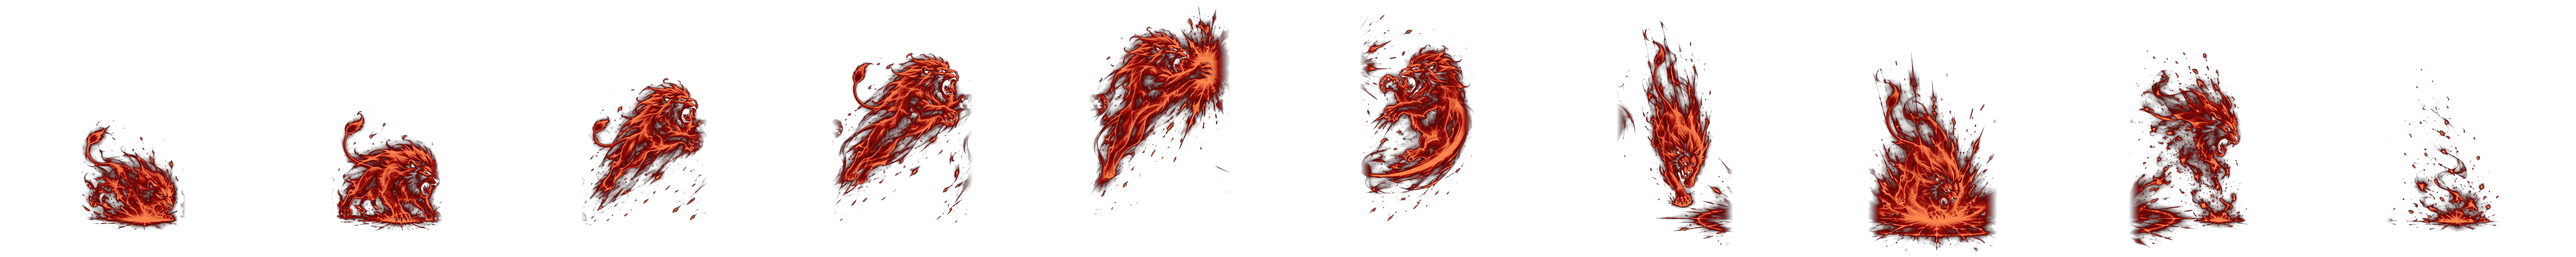
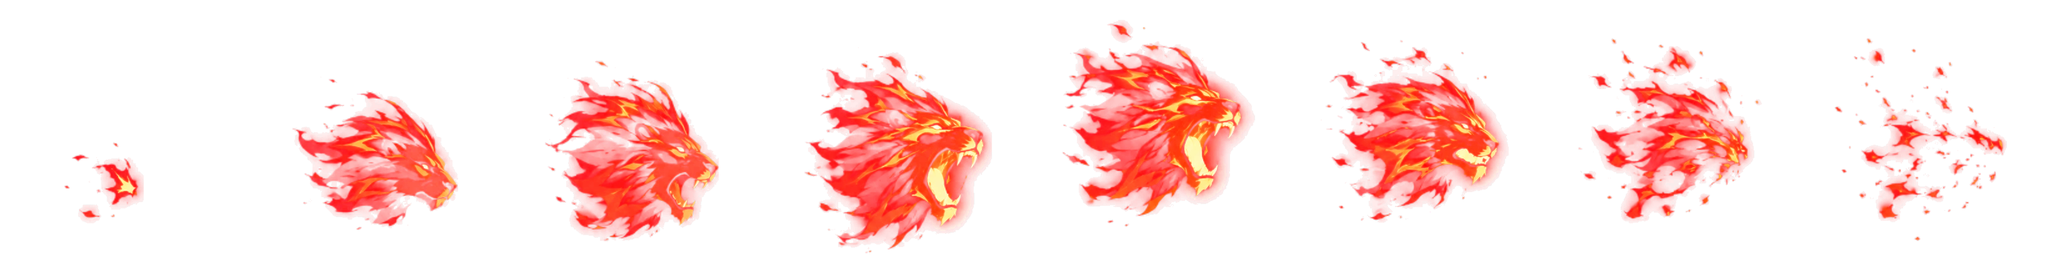
Warrior GPT batch (5 images): Wave Slash's own steel crescent running along the floor (its flying sheet; no longer borrows the basic's), Lion's Maw a recognisable crimson lion's head that lunges and bites, Iron Grip an iron gauntlet that closes into a fist, Judgment Blade a sword of light falling po
Claude-Session: https://claude.ai/code/session_0179BFGqN9ps681Yef5tVH6E

diff --git a/src/skills/SkillFx.ts b/src/skills/SkillFx.ts
@@ -17,7 +17,7 @@ import { ImpactFx } from './ImpactFx';
 
 const F = 'assets/final';
 /** Skills that borrow another skill's VFX sheet (no art of their own). */
-const VFX_ALIAS: Record<string, string> = { wave_slash: 'warrior_basic', radiant_blade: 'war_cry', iron_oath: 'war_cry', legacy_banner: 'war_cry' };
+const VFX_ALIAS: Record<string, string> = { radiant_blade: 'war_cry', iron_oath: 'war_cry', legacy_banner: 'war_cry' };
 const vfxKey = (id: string) => `vfx-${VFX_ALIAS[id] ?? id}`;
 const isBig = (s: FinalSkill) => s.slot === 6 || s.slot === 7;
 const TOP = 100000;
@@ -170,6 +170,9 @@ export function preloadSkillFx(scene: Phaser.Scene, classes?: readonly string[])
   for (const v of Object.values(IMPACT)) L(v.key, v.path, v.cell);
   if (want('warrior')) L('imp-wsparks', `${F}/impact/warrior_sparks.png`, 256); // the warrior's hit sparks: rows normal / heavy / launch / counter (GPT)
   if (want('warrior')) for (const fam of ['steel', 'stone', 'iron', 'holy', 'crimson']) L(`imp-wsparks-${fam}`, `${F}/impact/warrior_sparks_${fam}.webp`, 256); // the same sparks in each family's colour (tools/skills/wtone.py), drawn NORMAL
+  if (want('warrior')) if (!scene.textures.exists('w-spikes')) scene.load.spritesheet('w-spikes', `${F}/skills/warrior/earthsplitter/spikes.png`, { frameWidth: 256, frameHeight: 256 }); // Earthsplitter's rock spikes standing / crumbling (GPT, the continuity)
+  if (want('warrior')) if (!scene.textures.exists('jb-sword')) scene.load.spritesheet('jb-sword', `${F}/skills/warrior/judgment_blade/sword.png`, { frameWidth: 256, frameHeight: 256 }); // the Judge's sword of light falling point-down (GPT, DFO's review)
+  if (want('warrior')) if (!scene.textures.exists('jb-bolt-holy')) scene.load.spritesheet('jb-bolt-holy', `${F}/skills/warrior/judgment_blade/bolt_holy.png`, { frameWidth: 256, frameHeight: 512 }); // Thunder Rain: the warrior's blue lightning // (the Judge's own bolt in HOLY pale gold; the Archer keeps the blue one)
   const I = (k: string, p: string) => { if (!scene.textures.exists(k)) scene.load.image(k, p); };
   I('tg-circle', `${F}/world/telegraph_circle.png`); I('tg-cone', `${F}/world/telegraph_cone.png`);
   I('tg-line', `${F}/world/telegraph_line.png`); I('tg-traj', `${F}/world/telegraph_trajectory.png`);
@@ -195,7 +198,6 @@ export function preloadSkillFx(scene: Phaser.Scene, classes?: readonly string[])
       ['afx-fire', 'fire_burst', 320, 320], ['afx-rootband', 'roots_band', 640, 160], ['afx-tree2', 'tree_light', 360, 540], ['afx-heavy', 'heavy_arrow', 320, 480], ['afx-raura', 'rain_aura', 300, 450],
       ['afx-strike', 'floor_strike', 512, 256], ['afx-roar', 'roar_ring', 512, 256], ['afx-bcharge', 'bolt_charge', 320, 320], ['afx-rise', 'rise_thin', 240, 480]] as const) if (!scene.textures.exists(k)) scene.load.spritesheet(k, `${AF}/${f}.png`, { frameWidth: w, frameHeight: h }); // the painted round-3 set
     if (!scene.textures.exists('jb-bolt')) scene.load.spritesheet('jb-bolt', `${F}/skills/warrior/judgment_blade/bolt.png`, { frameWidth: 256, frameHeight: 512 }); // Thunder Rain: the warrior's blue lightning
-  if (!scene.textures.exists('jb-bolt-holy')) scene.load.spritesheet('jb-bolt-holy', `${F}/skills/warrior/judgment_blade/bolt_holy.png`, { frameWidth: 256, frameHeight: 512 }); // Thunder Rain: the warrior's blue lightning // (the Judge's own bolt in HOLY pale gold; the Archer keeps the blue one)
     I('afx-apple', `${AF}/apple.png`); for (let i = 1; i < 4; i++) I(`afx-apple-${i}`, `${AF}/apple_${i}.png`); I('afx-roots', `${AF}/roots.png`);
     L('afx-fan', `${AF}/release_fan.png`, 512, 256); L('afx-triple', `${AF}/triple_trail.png`, 512, 256); L('afx-storm', `${AF}/storm_top.png`, 512, 256); L('afx-eagle', `${AF}/eagle_top.png`, 512, 256); L('vfx-evasion', `${F}/skills/archer/evasion/vfx.png`, 256);
     I('archer-cutin', `${F}/skills/archer/sky_rain/cutin.webp`);
@@ -257,7 +259,7 @@ const WFAM_C: Record<string, number> = { warrior_basic: 0xe8f0ff, dash_slash: 0x
   ground_breaker: 0xb09474, leap_crash: 0xb09474, earthsplitter: 0xb09474, iron_grip: 0x9fc4ff, judgment_hook: 0x9fc4ff, shield_charge: 0x9fc4ff,
   judgment_blade: 0xfff0b8, sanctuary: 0xfff0b8, titans_verdict: 0xfff0b8, war_cry: 0xd8261c, lions_maw: 0xd8261c, blade_storm: 0xd8261c };
 const WFAM_N: Record<string, string> = Object.fromEntries(Object.entries(WFAM_C).map(([k, c]) => [k, c === 0xe8f0ff ? 'steel' : c === 0xb09474 ? 'stone' : c === 0x9fc4ff ? 'iron' : c === 0xfff0b8 ? 'holy' : c === 0xff5a40 ? 'steel' : 'crimson']));
-const WARRIOR_FEEL: Record<string, [number, number]> = { warrior_basic: [1.2, 1], whirlwind: [0.72, 0.72], ground_breaker: [0.7, 0.7], blade_storm: [0.7, 0.7], iron_grip: [0.6, 0.65], titans_verdict: [0.9, 0.9], leap_crash: [0.9, 0.9], lance_thrust: [0.85, 0.55] }; // (lance_thrust: the drill thinner and see-through round the foe — DFO's review)
+const WARRIOR_FEEL: Record<string, [number, number]> = { warrior_basic: [1.2, 1], whirlwind: [0.72, 0.72], ground_breaker: [0.7, 0.7], blade_storm: [0.7, 0.7], iron_grip: [0.85, 0.95], titans_verdict: [0.9, 0.9], leap_crash: [0.9, 0.9], lance_thrust: [0.85, 0.55] }; // (lance_thrust: the drill thinner and see-through round the foe — DFO's review)
 /** Warrior skills that get a ground shockwave ring at their impact. */
 const SHOCK: Record<string, { r: number; c: number }> = {
   ground_breaker: { r: 200, c: 0xb09474 }, shield_slam: { r: 110, c: 0xfff0c0 }, titans_verdict: { r: 260, c: 0xfff0b8 },
@@ -593,7 +595,9 @@ export class SkillFx {
   private lionsMaw(r: CastRun): void {
     const T = r.timings, key = vfxKey('lions_maw'), a = r.aim, c = this.casterPos(r.attackerId) ?? r.origin, flip = a.x < 0;
     const x = c.x + a.x * 70, y = c.y + a.y * 70, s = Math.max(40, T.startup / 2);
-    this.play(key, x, y + 8, 430, 430, [s, s, 50, 70, 120, 90, 120, 160, 160, 230], { oy: 508 / 512, flip, depth: y - 3, alpha: 0.95, blend: Phaser.BlendModes.NORMAL, fadeLast: 230 }); // (behind the two fighters and a size down: in PVP 3D the lion hid them both)
+    // the crimson lion's head (GPT): an ember at his side, the head forms, lunges at the foe with its jaw opening, the bite, embers
+    const fms = [s, s, 70, 80, 90, 120, 170, 230], img = this.play(key, x, y - c.z - 80, 300, 300, fms, { oy: 0.55, flip, depth: y - 3, alpha: 0.95, blend: Phaser.BlendModes.NORMAL, fadeLast: 230 }); // (behind the two fighters: in PVP 3D a bigger one hid them both)
+    if (img) this.scene.tweens.add({ targets: img, x: x + a.x * 110, delay: s * 2, duration: 240, ease: 'Cubic.easeOut' }); // the lunge
     this.scene.time.delayedCall(T.startup + 450, () => { this.shockwave(x + a.x * 60, y + a.y * 60, 220, 0xffc860); (this.cam ?? this.scene.cameras.main).shake(150, 0.006); });
   }
 
@@ -798,14 +802,21 @@ export class SkillFx {
         }, onComplete: () => {
           fly.destroy();
           // 3) impact: a lightning strike from the sky, screen flash, heavy shake, double shockwave
-          const bolt = this.scene.add.graphics().setBlendMode(Phaser.BlendModes.ADD).setDepth(TOP);
-          zig(bolt, land.x + (Math.random() - 0.5) * 40, land.y - 520, land.x, land.y, 12, 16); zig(bolt, from.x, from.y, land.x, land.y - 10, 8, 10);
-          this.scene.tweens.add({ targets: bolt, alpha: 0, duration: 220, onComplete: () => bolt.destroy() });
+          const sword = this.scene.textures.exists('jb-sword');
+          if (!sword) { const bolt = this.scene.add.graphics().setBlendMode(Phaser.BlendModes.ADD).setDepth(TOP);
+            zig(bolt, land.x + (Math.random() - 0.5) * 40, land.y - 520, land.x, land.y, 12, 16); zig(bolt, from.x, from.y, land.x, land.y - 10, 8, 10);
+            this.scene.tweens.add({ targets: bolt, alpha: 0, duration: 220, onComplete: () => bolt.destroy() }); }
           const burst = this.scene.add.image(land.x, land.y - 20, 'dmg-glow').setBlendMode(Phaser.BlendModes.ADD).setTint(0xfff0b8).setDepth(TOP).setDisplaySize(120, 90);
           this.scene.tweens.add({ targets: burst, displayWidth: 420, displayHeight: 260, alpha: 0, duration: 260, ease: 'Cubic.easeOut', onComplete: () => burst.destroy() });
-          const img = this.scene.add.image(land.x, land.y + 6, jbKey, 7).setOrigin(0.5, 0.95).setDepth(land.y - 2).setBlendMode(Phaser.BlendModes.ADD).setDisplaySize(BW, BH * 1.15).setAlpha(0.6); img.setData('a0', 0.6); // (behind the pinned foe, softer: the pillar of light no longer hides him for its whole 5 s)
-          const fms = [90, 110, 110, 110, 280];
-          this.anims.push({ img, t: 0, total: fms.reduce((x, y) => x + y, 0), frames: [7, 8, 9, 10, 11], frameMs: fms, fadeLast: 280, loop: [1, 3], until: 5000 });
+          if (sword) { // the Judge's sword of light falls point-down onto him and stands planted for the pin, its runes spread where it bit (DFO: a sword's shape)
+            const img = this.scene.add.image(land.x, land.y - 2, 'jb-sword', 1).setOrigin(0.5, 0.93).setDepth(land.y - 2).setDisplaySize(340, 340).setAlpha(0.95).setTint(0xf0d8a0); img.setData('a0', 0.95); // (its drawn point is its floor point: PVP 3D plants it there, just behind him) // (behind the pinned foe)
+            const fms = [50, 50, 90, 140, 180, 180, 260];
+            this.anims.push({ img, t: 0, total: fms.reduce((x, y) => x + y, 0), frames: [1, 2, 3, 4, 5, 6, 7], frameMs: fms, fadeLast: 260, loop: [4, 5], until: 5000 });
+          } else {
+            const img = this.scene.add.image(land.x, land.y + 6, jbKey, 7).setOrigin(0.5, 0.95).setDepth(land.y - 2).setBlendMode(Phaser.BlendModes.ADD).setDisplaySize(BW, BH * 1.15).setAlpha(0.6); img.setData('a0', 0.6);
+            const fms = [90, 110, 110, 110, 280];
+            this.anims.push({ img, t: 0, total: fms.reduce((x, y) => x + y, 0), frames: [7, 8, 9, 10, 11], frameMs: fms, fadeLast: 280, loop: [1, 3], until: 5000 });
+          }
           this.shockwave(land.x, land.y, 170, 0xfff0b8); this.scene.time.delayedCall(70, () => this.shockwave(land.x, land.y, 280, 0xffd27a));
           this.spark(IMPACT.warrior.key, land.x, land.y - 30, IMPACT.warrior.frames, 200, 1);
           this.screenFlash(0xfff0b8, 0.12, 160); cam.shake(240, 0.011); // (a soft flash: no full-screen white-out)

diff --git a/src/arena3d/fx3d/warrior.ts b/src/arena3d/fx3d/warrior.ts
@@ -37,7 +37,7 @@ export const WARRIOR: Record<string, Recipe> = {
   judgment_hook: { tone: W.iron, own: true, active: (f, r) => { const c = me(f, r), e = ahead(f, r, 420); f.streak({ x: c.x, y: c.y, z: 100 }, { x: e.x, y: e.y, z: 100 }, W.iron, { w: 6, ms: 420, draw: 110 }); } },
   shield_charge: { tone: W.iron, own: true, cast: (f, r) => f.dome(me(f, r).x + side(r) * 50, me(f, r).y, W.iron, { r: 110, ms: T(r).startup + T(r).active, a: 0.4, hold: 1, follow: () => { const c = f.host.casterPos(r.attackerId); return c ? { x: c.x + side(r) * 60, y: c.y, z: 0 } : null; } }) },
   // HOLY
-  judgment_blade: { tone: W.holy, own: true, fired: (f, r, i, o) => { if (i === 0) return; f.bolt({ x: o.x + side(r) * 40, y: o.y, z: 950 }, { x: o.x, y: o.y, z: 20 }, W.holy, { ms: 420, w: 14, forks: 4 }); crk(f, o.x, o.y, W.holy, { r: 120, chunks: 10 }); f.host.impact({ x: o.x, y: o.y, z: 20 }, 1); } }, // the judge's blade falls from the sky
+  judgment_blade: { tone: W.holy, own: true, fired: (f, r, i, o) => { if (i === 0) return; f.streak({ x: o.x, y: o.y, z: 900 }, { x: o.x, y: o.y, z: 40 }, W.holy, { w: 9, ms: 220, draw: 60 }); /* (the sword's dive: the painted sword of light lands on it) */ crk(f, o.x, o.y, W.holy, { r: 120, chunks: 10 }); f.host.impact({ x: o.x, y: o.y, z: 20 }, 1); } }, // the judge's blade falls from the sky
   sanctuary: { tone: W.holy, own: true, active: (f, r) => { const c = me(f, r); f.dome(c.x, c.y, W.holy, { r: 190, ms: 1400, a: 0.3, hold: 1, follow: () => f.host.casterPos(r.attackerId) }); f.pillar(c.x, c.y, W.holy, { h: 420, r: 40, ms: 600, i: 0.7, core: false }); } }, // a see-through dome of light, motes rising
   titans_verdict: { tone: 0xffb84a, own: true, /* (the room lit warm gold: its near-white holy light milked the whole screen) */ active: (f, r) => { const c = ahead(f, r, 110); f.pillar(c.x, c.y, W.holy, { h: 700, r: 42, ms: 700, i: 0.3, twist: true, core: false }); /* (soft: the room's bloom blew a brighter one to a white column — David: no white-out) */ f.later(120, () => { crk(f, c.x, c.y, W.molten, { r: 260, chunks: 30, up: 1.4 }); f.host.kick(0.09); f.host.impact({ x: c.x, y: c.y, z: 40 }, 1); }); } },
   // CRIMSON

diff --git a/src/skills/WarriorSpikes.ts b/src/skills/WarriorSpikes.ts
@@ -78,16 +78,18 @@ export class WarriorSpikes {
     const f3 = this.h.fx3d();
     if (f3) f3.crystals(s.x, s.y, { n: 2, r: 18, h: 95, ms: Math.max(300, left), stone: true }); // (real rock spikes standing in the planks)
     if (ARENA3D.on) return;
-    const sc = this.h.scene(), key = this.h.vfxKey('earthsplitter');
+    const sc = this.h.scene(), own = sc.textures.exists('w-spikes'), key = own ? 'w-spikes' : this.h.vfxKey('earthsplitter');
     if (!sc.textures.exists(key)) return;
-    s.img = sc.add.image(s.x, s.y + 4, key, 4).setOrigin(0.5, 0.95).setDepth(s.y).setDisplaySize(120, 10).setAlpha(1); // the painted spikes, thrust up
-    sc.tweens.add({ targets: s.img, displayHeight: 80, duration: 140, ease: 'Back.easeOut' });
+    const v = [...s.key].reduce((h, c) => (h * 31 + c.charCodeAt(0)) >>> 0, 7) % 4; // (one of four clusters, the same on every screen)
+    s.img = sc.add.image(s.x, s.y + 4, key, own ? v : 4).setOrigin(0.5, own ? 0.97 : 0.95).setDepth(s.y).setDisplaySize(own ? 130 : 120, 10).setAlpha(1); s.img.setData('v', v); // the painted spikes (GPT), thrust up
+    sc.tweens.add({ targets: s.img, displayHeight: own ? 130 : 80, duration: 140, ease: 'Back.easeOut' });
   }
 
   private remove(s: Spike, burst: boolean): void {
     this.spikes = this.spikes.filter((x) => x !== s);
     const im = s.img; if (!im) return;
     s.img = undefined;
+    if (im.texture.key === 'w-spikes') im.setFrame(4 + (im.getData('v') ?? 0)); // (its crumbling frame)
     im.scene.tweens.add({ targets: im, alpha: 0, displayHeight: burst ? 20 : im.displayHeight * 0.6, duration: burst ? 120 : 400, onComplete: () => im.destroy() });
   }
 }

diff --git a/tools/skills/wtone.py b/tools/skills/wtone.py
@@ -22,9 +22,11 @@ FAM = {  # dark, mid, hot stops (0..1 rgb), alpha gain, the knee (brightness whe
 SHEETS = {  # skill dir / file : family
     'warrior_basic/vfx': 'STEEL', 'dash_slash/vfx': 'STEEL', 'whirlwind/vfx': 'STEEL', 'lance_thrust/vfx': 'STEEL', 'sky_breaker/vfx': 'STEEL',
     'ground_breaker/vfx': 'STONE', 'leap_crash/vfx': 'STONE', 'earthsplitter/vfx': 'STONE',
-    'iron_grip/vfx': 'IRON', 'judgment_hook/vfx': 'IRON', 'shield_charge/vfx': 'IRON',
+    'judgment_hook/vfx': 'IRON',  # (Iron Grip: its own iron gauntlet painted by GPT — no re-tone)
+    'shield_charge/vfx': 'IRON',
     'judgment_blade/ring': 'HOLY',  # (bolt.png stays blue for the Archer's lightning arrow; the Judge's copy: python3 -c tone(orig bolt,'HOLY') → bolt_holy.png)
-    'war_cry/vfx': 'CRIMSON', 'sanctuary/vfx': 'HOLY',  # (sanctuary/vfx: War Cry's original sheet in HOLY — it used to borrow War Cry's) 'lions_maw/vfx': 'CRIMSON', 'blade_storm/storm': 'CRIMSON', 'blade_storm/erupt_a': 'CRIMSON', 'blade_storm/phantom': 'CRIMSON',
+    'war_cry/vfx': 'CRIMSON', 'sanctuary/vfx': 'HOLY',  # (sanctuary/vfx: War Cry's original sheet in HOLY — it used to borrow War Cry's)
+    'blade_storm/storm': 'CRIMSON', 'blade_storm/erupt_a': 'CRIMSON', 'blade_storm/phantom': 'CRIMSON',  # (Lion's Maw: its own crimson lion head painted by GPT — no re-tone)
 }
 
 DEHAZE = {'ground_breaker/vfx'}  # the translucent fill of the painted floor disc dropped (the cracks and chunks kept): it read as a white-gold disc round both fighters (DFO's review)
